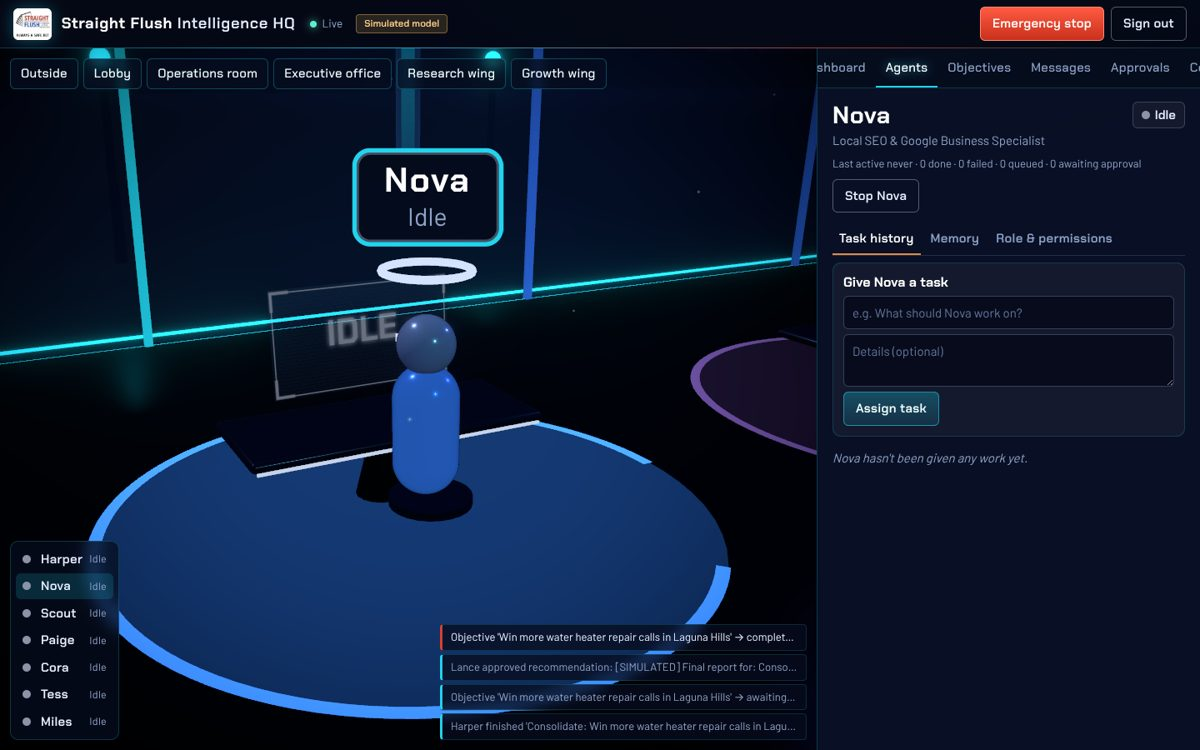
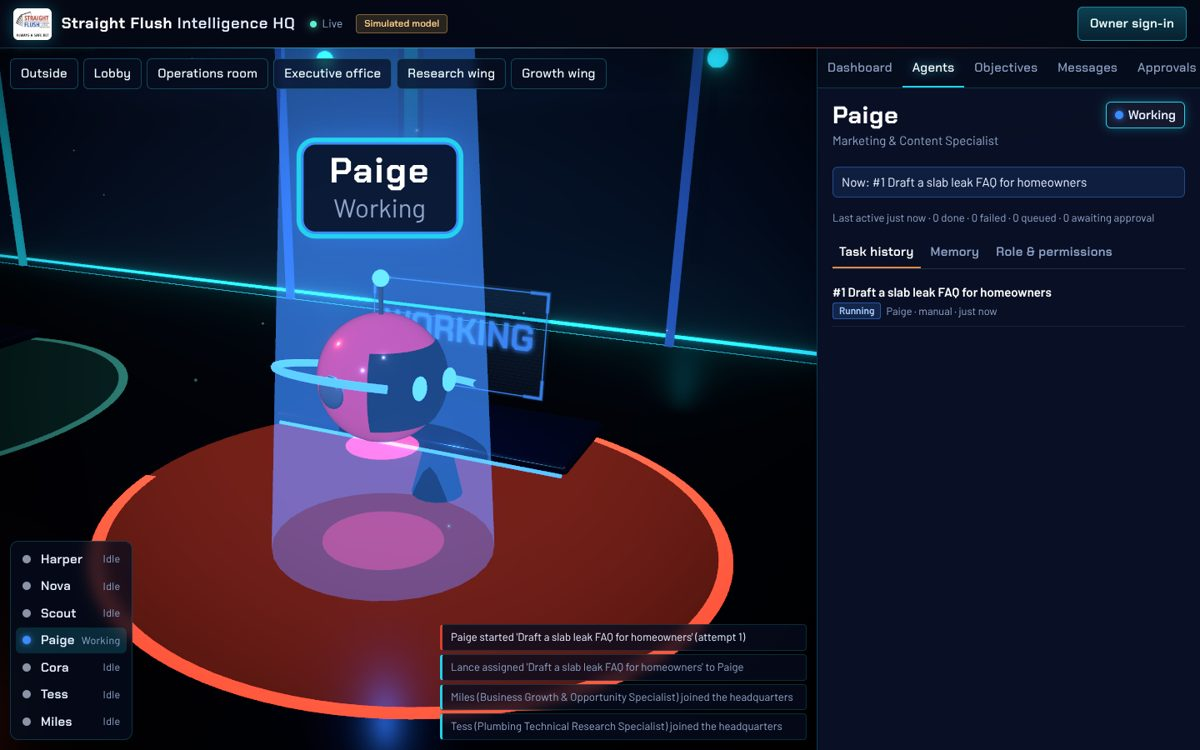
Intelligence HQ: round hovering robot agents, one colour per agent
Original round bot design: glossy sphere body in a unique colour per agent, dark glass face with
glowing eyes, side pods, antenna and a status orbit ring. Idle bots turn to look at the viewer and
blink; working bots face their screen with scanning eyes; errors turn the eyes red; stopped bots
power down. All driven by stored agent status.

Claude-Session: https://claude.ai/code/session_01RuftUfjMkk8CJBqUEpbCrQ

diff --git a/intelligence-hq/web/src/scene/HQScene.tsx b/intelligence-hq/web/src/scene/HQScene.tsx
@@ -354,6 +354,19 @@ function statusScreen(status: string): THREE.CanvasTexture {
   return screenTextures.get(status)!;
 }
 
+// Each agent gets its own colour; agents added later get one from the palette.
+const BOT_COLORS: Record<string, string> = {
+  executive: "#FFB020", seo: "#3D8BFF", competitor: "#A45CFF", marketing: "#FF4FA3",
+  customer: "#2FD9A6", technical: "#FF7A2F", growth: "#8CFF4F",
+};
+const PALETTE = ["#4FD8FF", "#FFD84F", "#FF6B6B", "#B98CFF", "#4FFFB0", "#FF9F4F"];
+function botColorFor(id: string): string {
+  if (BOT_COLORS[id]) return BOT_COLORS[id];
+  let h = 0;
+  for (const c of id) h = (h * 31 + c.charCodeAt(0)) >>> 0;
+  return PALETTE[h % PALETTE.length];
+}
+
 function Workstation({ agent, dept, selected, onSelect, reducedMotion, occluders }:
   { agent: Agent; dept: Dept; selected: boolean; onSelect: (id: string) => void; reducedMotion: boolean;
     occluders: React.RefObject<THREE.Object3D>[] }) {
@@ -364,7 +377,12 @@ function Workstation({ agent, dept, selected, onSelect, reducedMotion, occluders
   const screen = useRef<THREE.MeshBasicMaterial>(null);
   const beam = useRef<THREE.MeshBasicMaterial>(null);
   const body = useRef<THREE.Group>(null);
+  const head = useRef<THREE.Group>(null);
+  const eyes = useRef<THREE.Group>(null);
   const padRing = useRef<THREE.Mesh>(null);
+  const { camera } = useThree();
+  const botColor = botColorFor(agent.id);
+  const eyeColor = agent.status === "error" ? BRAND_RED : active ? color : "#BFF6FF";
   const [hover, setHover] = useState(false);
   const label = useMemo(() => textTexture([{ text: dept.label.toUpperCase(), size: 60, color: "#FFFFFF", weight: 700 }], 1200, 120, null, dept.color), [dept]);
   const screenTex = statusScreen(agent.status);
@@ -377,7 +395,24 @@ function Workstation({ agent, dept, selected, onSelect, reducedMotion, occluders
     }
     if (screen.current) screen.current.opacity = off ? 0.15 : active ? 0.85 + Math.sin(t * 12) * 0.08 * m : 0.55;
     if (beam.current) beam.current.opacity = active ? 0.16 + Math.sin(t * 4) * 0.06 * m : 0;
-    if (body.current) body.current.position.y = active ? 0.12 + Math.sin(t * 2.4) * 0.08 * m : 0.05 + Math.sin(t * 1.2 + dept.pos[0]) * 0.03 * m;
+    if (body.current) body.current.position.y = 1.75 + (active ? 0.1 + Math.sin(t * 2.4) * 0.08 * m : Math.sin(t * 1.2 + dept.pos[0]) * 0.07 * m);
+    if (head.current && body.current?.parent) {
+      // idle bots turn to look at the camera; busy bots face their screen (yaw 0)
+      let target = 0;
+      if (!active && !off) {
+        const local = body.current.parent.worldToLocal(camera.position.clone());
+        target = Math.atan2(-(local.x - body.current.position.x), -(local.z - body.current.position.z));
+      }
+      let diff = target - head.current.rotation.y;
+      diff = Math.atan2(Math.sin(diff), Math.cos(diff));
+      head.current.rotation.y += diff * (reducedMotion ? 1 : 0.08);
+      head.current.rotation.x = off ? 0.35 : 0;
+    }
+    if (eyes.current) {
+      const blink = !active && !off && m && (t + dept.pos[2]) % 4.2 < 0.12 ? 0.12 : 1;
+      eyes.current.scale.y = agent.status === "error" ? 0.45 : off ? 0.3 : blink;
+      eyes.current.position.x = active ? Math.sin(t * 3) * 0.07 * m : 0;
+    }
     if (padRing.current) padRing.current.rotation.z = -t * 0.3 * m;
   });
   const click = (e: ThreeEvent<MouseEvent>) => { e.stopPropagation(); onSelect(agent.id); };
@@ -403,35 +438,64 @@ function Workstation({ agent, dept, selected, onSelect, reducedMotion, occluders
         <planeGeometry args={[1.9, 1.07]} />
         <meshBasicMaterial ref={screen} map={screenTex} transparent opacity={0.6} toneMapped={false} side={THREE.DoubleSide} depthWrite={false} />
       </mesh>
-      {/* chair */}
-      <mesh position={[0, 0.6, 0.45]}><cylinderGeometry args={[0.38, 0.38, 0.08, 24]} /><meshStandardMaterial color="#111C3D" metalness={0.6} roughness={0.3} /></mesh>
-      {/* agent */}
-      <group ref={body} onClick={click} onPointerOver={(e) => { e.stopPropagation(); setHover(true); document.body.style.cursor = "pointer"; }}
+      {/* round robot agent: hovers over the pad, looks at you when idle and at its screen while working */}
+      <group ref={body} position={[0, 1.75, 0.55]} onClick={click}
+        onPointerOver={(e) => { e.stopPropagation(); setHover(true); document.body.style.cursor = "pointer"; }}
         onPointerOut={() => { setHover(false); document.body.style.cursor = ""; }}>
-        <mesh position={[0, 1.2, 0.35]}>
-          <capsuleGeometry args={[0.3, 0.6, 8, 24]} />
-          <meshPhysicalMaterial color={dept.color} metalness={0.4} roughness={0.2} clearcoat={1}
-            emissive={dept.color} emissiveIntensity={selected || hover ? 0.55 : off ? 0 : 0.18} />
+        <group ref={head}>
+          <mesh>
+            <sphereGeometry args={[0.55, 48, 48]} />
+            <meshPhysicalMaterial color={botColor} metalness={0.25} roughness={0.18} clearcoat={1} clearcoatRoughness={0.08}
+              emissive={botColor} emissiveIntensity={selected || hover ? 0.45 : off ? 0.02 : 0.14} />
+          </mesh>
+          {/* glass face */}
+          <mesh>
+            <sphereGeometry args={[0.565, 48, 32, Math.PI * 1.5 - 0.95, 1.9, 0.92, 1.25]} />
+            <meshPhysicalMaterial color="#05070F" metalness={0.6} roughness={0.05} clearcoat={1} side={THREE.DoubleSide} />
+          </mesh>
+          <group ref={eyes} position={[0, 0.06, -0.56]}>
+            {[-0.17, 0.17].map((x) => (
+              <mesh key={x} position={[x, 0, 0]} scale={[1, 1.35, 0.45]}>
+                <sphereGeometry args={[0.075, 20, 20]} />
+                <meshBasicMaterial color={glow(eyeColor, off ? 0.25 : 2.8)} toneMapped={false} />
+              </mesh>
+            ))}
+          </group>
+          {/* side pods */}
+          {[-1, 1].map((sx) => (
+            <mesh key={sx} position={[sx * 0.55, 0, 0]} scale={[0.45, 1, 1]}>
+              <sphereGeometry args={[0.14, 20, 20]} />
+              <meshPhysicalMaterial color="#EAF2FF" metalness={0.5} roughness={0.15} clearcoat={1} />
+            </mesh>
+          ))}
+          {/* antenna */}
+          <mesh position={[0, 0.68, 0]}><cylinderGeometry args={[0.02, 0.02, 0.28, 8]} /><meshStandardMaterial color="#C9D6EA" metalness={0.8} roughness={0.3} /></mesh>
+          <mesh position={[0, 0.85, 0]}><sphereGeometry args={[0.07, 16, 16]} /><meshBasicMaterial color={glow(color, off ? 0.3 : 3)} toneMapped={false} /></mesh>
+        </group>
+        {/* status orbit ring */}
+        <mesh ref={halo} rotation-x={Math.PI / 2 - 0.25}>
+          <torusGeometry args={[0.82, 0.03, 8, 64, active ? Math.PI * 1.4 : Math.PI * 2]} />
+          <meshBasicMaterial color={glow(color, off ? 0.4 : 2.4)} toneMapped={false} />
         </mesh>
-        <mesh position={[0, 1.25, 0.06]}><sphereGeometry args={[0.09, 16, 16]} /><meshBasicMaterial color={glow(color, off ? 0.4 : 3)} toneMapped={false} /></mesh>
-        <mesh position={[0, 1.98, 0.35]}>
-          <sphereGeometry args={[0.26, 32, 32]} />
-          <meshPhysicalMaterial color="#E9F2FF" metalness={0.3} roughness={0.1} clearcoat={1} />
+        {/* hover thruster glow */}
+        <mesh position={[0, -0.62, 0]} rotation-x={Math.PI / 2}>
+          <circleGeometry args={[0.32, 32]} />
+          <meshBasicMaterial color={glow(botColor, off ? 0.2 : 1.8)} transparent opacity={0.55} toneMapped={false}
+            blending={THREE.AdditiveBlending} depthWrite={false} side={THREE.DoubleSide} />
         </mesh>
-        <mesh position={[0, 2.0, 0.13]}><boxGeometry args={[0.34, 0.07, 0.06]} /><meshBasicMaterial color={glow(color, off ? 0.4 : 2.6)} toneMapped={false} /></mesh>
-        <mesh ref={halo} position={[0, 2.62, 0.35]} rotation-x={Math.PI / 2}>
-          <torusGeometry args={[0.38, 0.035, 8, 48, active ? Math.PI * 1.5 : Math.PI * 2]} />
-          <meshBasicMaterial color={glow(color, off ? 0.5 : 2.6)} toneMapped={false} />
-        </mesh>
-        <mesh position={[0, 1.5, 0.35]} visible={false}><boxGeometry args={[1.4, 3, 1.4]} /></mesh>
+        <mesh visible={false}><sphereGeometry args={[0.9, 8, 8]} /></mesh>
       </group>
+      <mesh rotation-x={-Math.PI / 2} position={[0, 0.24, 0.55]}>
+        <circleGeometry args={[0.55, 32]} />
+        <meshBasicMaterial color={glow(botColor, off ? 0.1 : 0.9)} transparent opacity={0.35} toneMapped={false} depthWrite={false} />
+      </mesh>
       {/* light beam while working */}
-      <mesh position={[0, 3.2, 0.35]}><cylinderGeometry args={[0.5, 0.9, 6, 32, 1, true]} />
+      <mesh position={[0, 3.2, 0.55]}><cylinderGeometry args={[0.6, 1, 6, 32, 1, true]} />
         <meshBasicMaterial ref={beam} color={glow(color, 1.5)} transparent opacity={0} toneMapped={false} side={THREE.DoubleSide}
           depthWrite={false} blending={THREE.AdditiveBlending} /></mesh>
-      {agent.status === "error" && <pointLight position={[0, 2.6, 0.35]} color={BRAND_RED} intensity={10} distance={6} />}
-      {active && <pointLight position={[0, 2.2, 0.35]} color={color} intensity={6} distance={5} />}
-      <Html position={[0, 3.25, 0.35]} center distanceFactor={16} zIndexRange={[10, 0]} occlude={occluders} style={{ pointerEvents: "none" }}>
+      {agent.status === "error" && <pointLight position={[0, 2.4, 0.55]} color={BRAND_RED} intensity={10} distance={6} />}
+      {active && <pointLight position={[0, 2.2, 0.55]} color={color} intensity={6} distance={5} />}
+      <Html position={[0, 3.35, 0.55]} center distanceFactor={16} zIndexRange={[10, 0]} occlude={occluders} style={{ pointerEvents: "none" }}>
         <div className={`tag tag-${agent.status}${selected ? " tag-selected" : ""}`}>
           <strong>{agent.name}</strong><span>{STATUS_LABEL[agent.status]}</span>
         </div>
